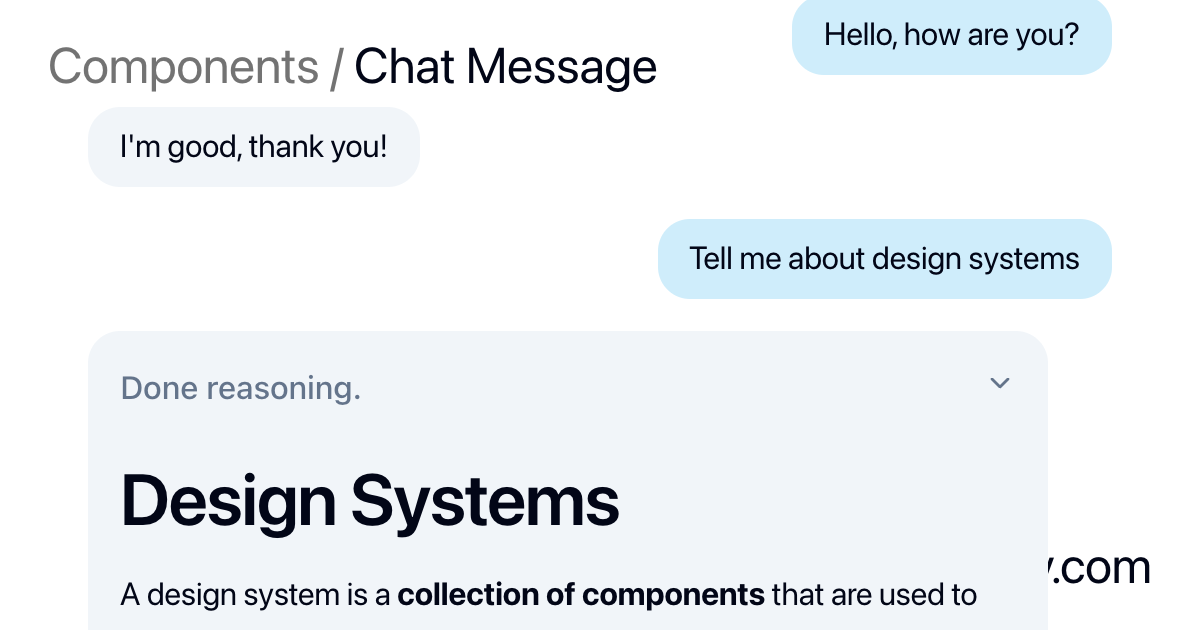
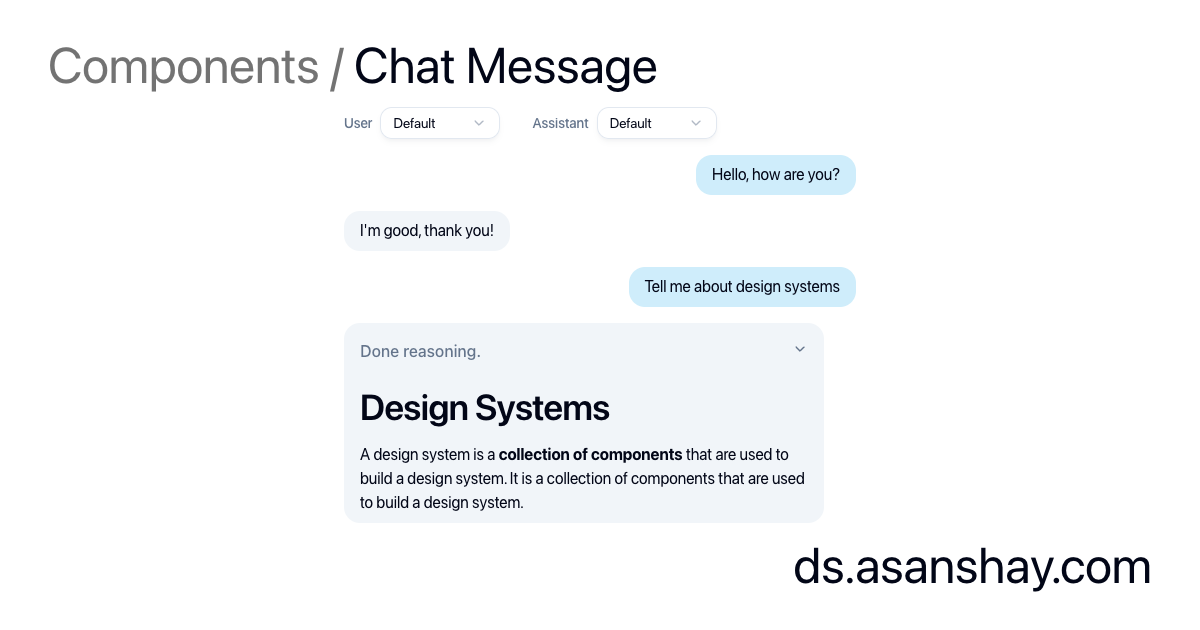
Tune per-component demo scaling for OG captures

diff --git a/app/demo/[component]/page.tsx b/app/demo/[component]/page.tsx
@@ -19,6 +19,22 @@ export default async function DemoOnlyComponentPage({
     notFound();
   }
 
+  const scaleByComponent: Record<string, number> = {
+    badge: 1.5,
+    "chat-input": 1.5,
+    "color-picker": 1.5,
+    "page-header": 1.5,
+    card: 1,
+    "chat-message": 1,
+    "code-block": 1,
+    "description-list": 1,
+    pointer: 1,
+    window: 1,
+    markdown: 0.5,
+  };
+  const scale = scaleByComponent[id] ?? 2;
+  const needsFlexColumnParent = id === "pointer" || id === "window";
+
   return (
     <>
       <style>
@@ -53,8 +69,15 @@ export default async function DemoOnlyComponentPage({
           ds.asanshay.com
         </div>
         <div className="absolute inset-0 flex items-center justify-center overflow-hidden">
-          <div className="flex min-h-[40vh] min-w-[40vw] origin-center scale-[2] items-center justify-center">
-            {demo}
+          <div
+            className="flex min-h-[40vh] min-w-[40vw] origin-center items-center justify-center"
+            style={{ transform: `scale(${scale})` }}
+          >
+            {needsFlexColumnParent ? (
+              <div className="flex h-[40vh] w-[40vw] flex-col">{demo}</div>
+            ) : (
+              demo
+            )}
           </div>
         </div>
       </main>

diff --git a/components/demos/pointer-demo.tsx b/components/demos/pointer-demo.tsx
@@ -22,7 +22,7 @@ export default function PointerDemo() {
   }, [moveTo]);
 
   return (
-    <div className="flex flex-col gap-4 w-full h-ful min-h-0 flex-1">
+    <div className="flex w-full min-h-0 flex-1 flex-col gap-4 h-full">
       <div className="flex items-center gap-2">
         <Button size="sm" onClick={randomMove}>
           Random move
